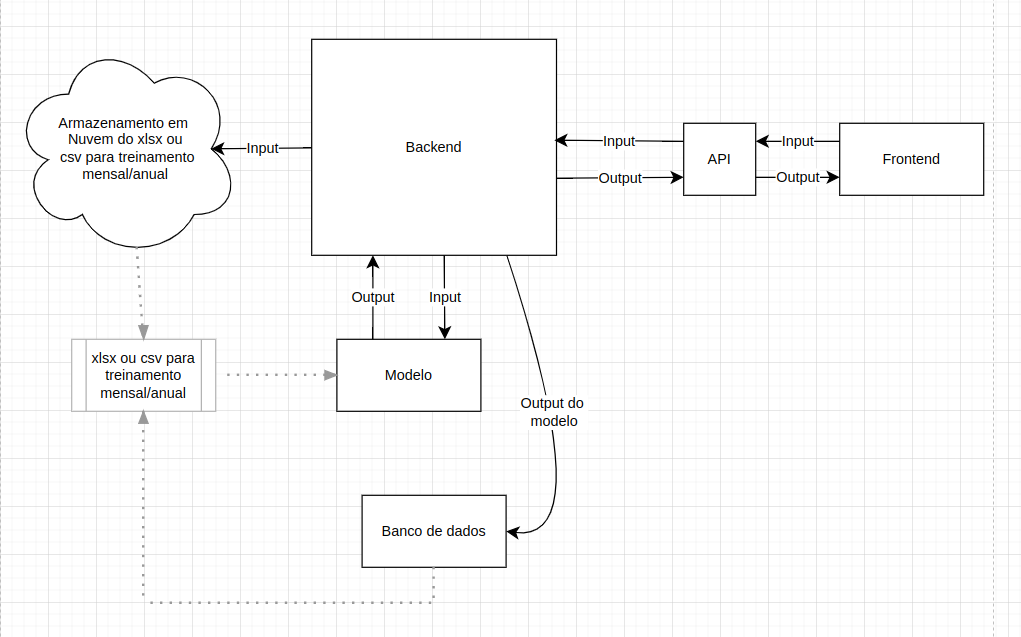
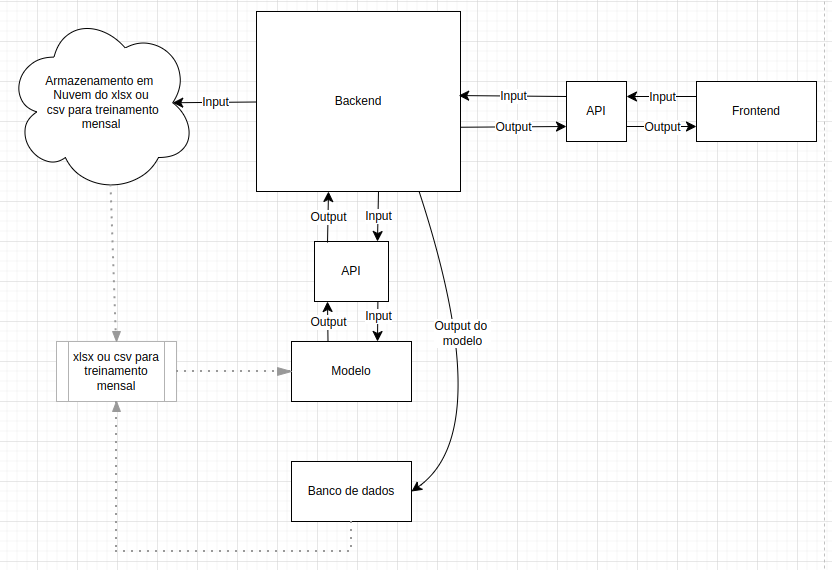
docs: Arquitetura sprint 1

diff --git a/documentacao/docs/Sprint 1/Requisitos de Viabilidade Técnica/Proposta Geral do Sistema.md b/documentacao/docs/Sprint 1/Requisitos de Viabilidade Técnica/Proposta Geral do Sistema.md
@@ -17,7 +17,7 @@ Para uma melhor visualização da estrutura do sistema mencionado acima, é poss
 
 ![Diagrama de blocos](/img/diagrama-de-blocos.png)
 
-**Fonte:** Elaborado pela equipe Toretto 
+**Fonte:** Elaborado pela equipe 
 
 </div>
 
@@ -25,7 +25,7 @@ Para uma melhor visualização da estrutura do sistema mencionado acima, é poss
 Ambos constituem a formação da **interface**, sendo o Frontend a interface visual que o usuário consegue acessar e o Backend o responsável por gerir as informações, utilizando-se de uma API para realizar .
 No **Frontend**, há a possibilidade de acessar tanto os **outputs** do modelo com a classificação dos carros, quanto realizar o upload de informações para o treinamento do modelo, ou dados sobre um carro específico para realizar uma classificação, ou seja, os **inputs**.
 
-No **Backend**, os inputs recebidos pelo usuário serão ou repassados para o modelo para serem processados, ou serão armazenados para re-treinar o modelo posteriormente, atualizando-o com novos dados.
+No **Backend**, os inputs recebidos pelo usuário serão ou repassados para o modelo para serem processados, ou serão *armazenados em nuvem* para re-treinar o modelo posteriormente de maneira mensal, atualizando-o com novos dados. 
 
 ### Modelo
 O **modelo** será o microsserviço de inteligência artificial que irá processar os dados e devolverá uma classificação dos carros, dizendo se há uma probabilidade alta ou baixa de falhas e qual o teste mais indicado para cada caso.
@@ -33,4 +33,4 @@ Esse **output** será repassado para o backend, que irá repassar para o fronten
 
 
 ### Armazenamento de dados
-Essa parte nada mais é que o armazenamendo dos arquivos *csv que serão enviados pelo usuário para o treinamento do modelo, ou seja, o histórico de dados de treinamento ficará salvo.
+Haverão duas formas: um **banco de dados** local e um **armazenamento de dados em nuvem.** No banco de dados, ficarão salvos os outputs (predições) do modelo, que serão comparados posteriormente com os dados reais a fim de re-treinar o modelo. Para haver a comparação com dados reais, o usuário poderá salvar em nuvem a cada mês os resultados das falhas nos carros em um arquivo *csv ou *xlsx, o que também irá contribuir para a melhora do modelo.
